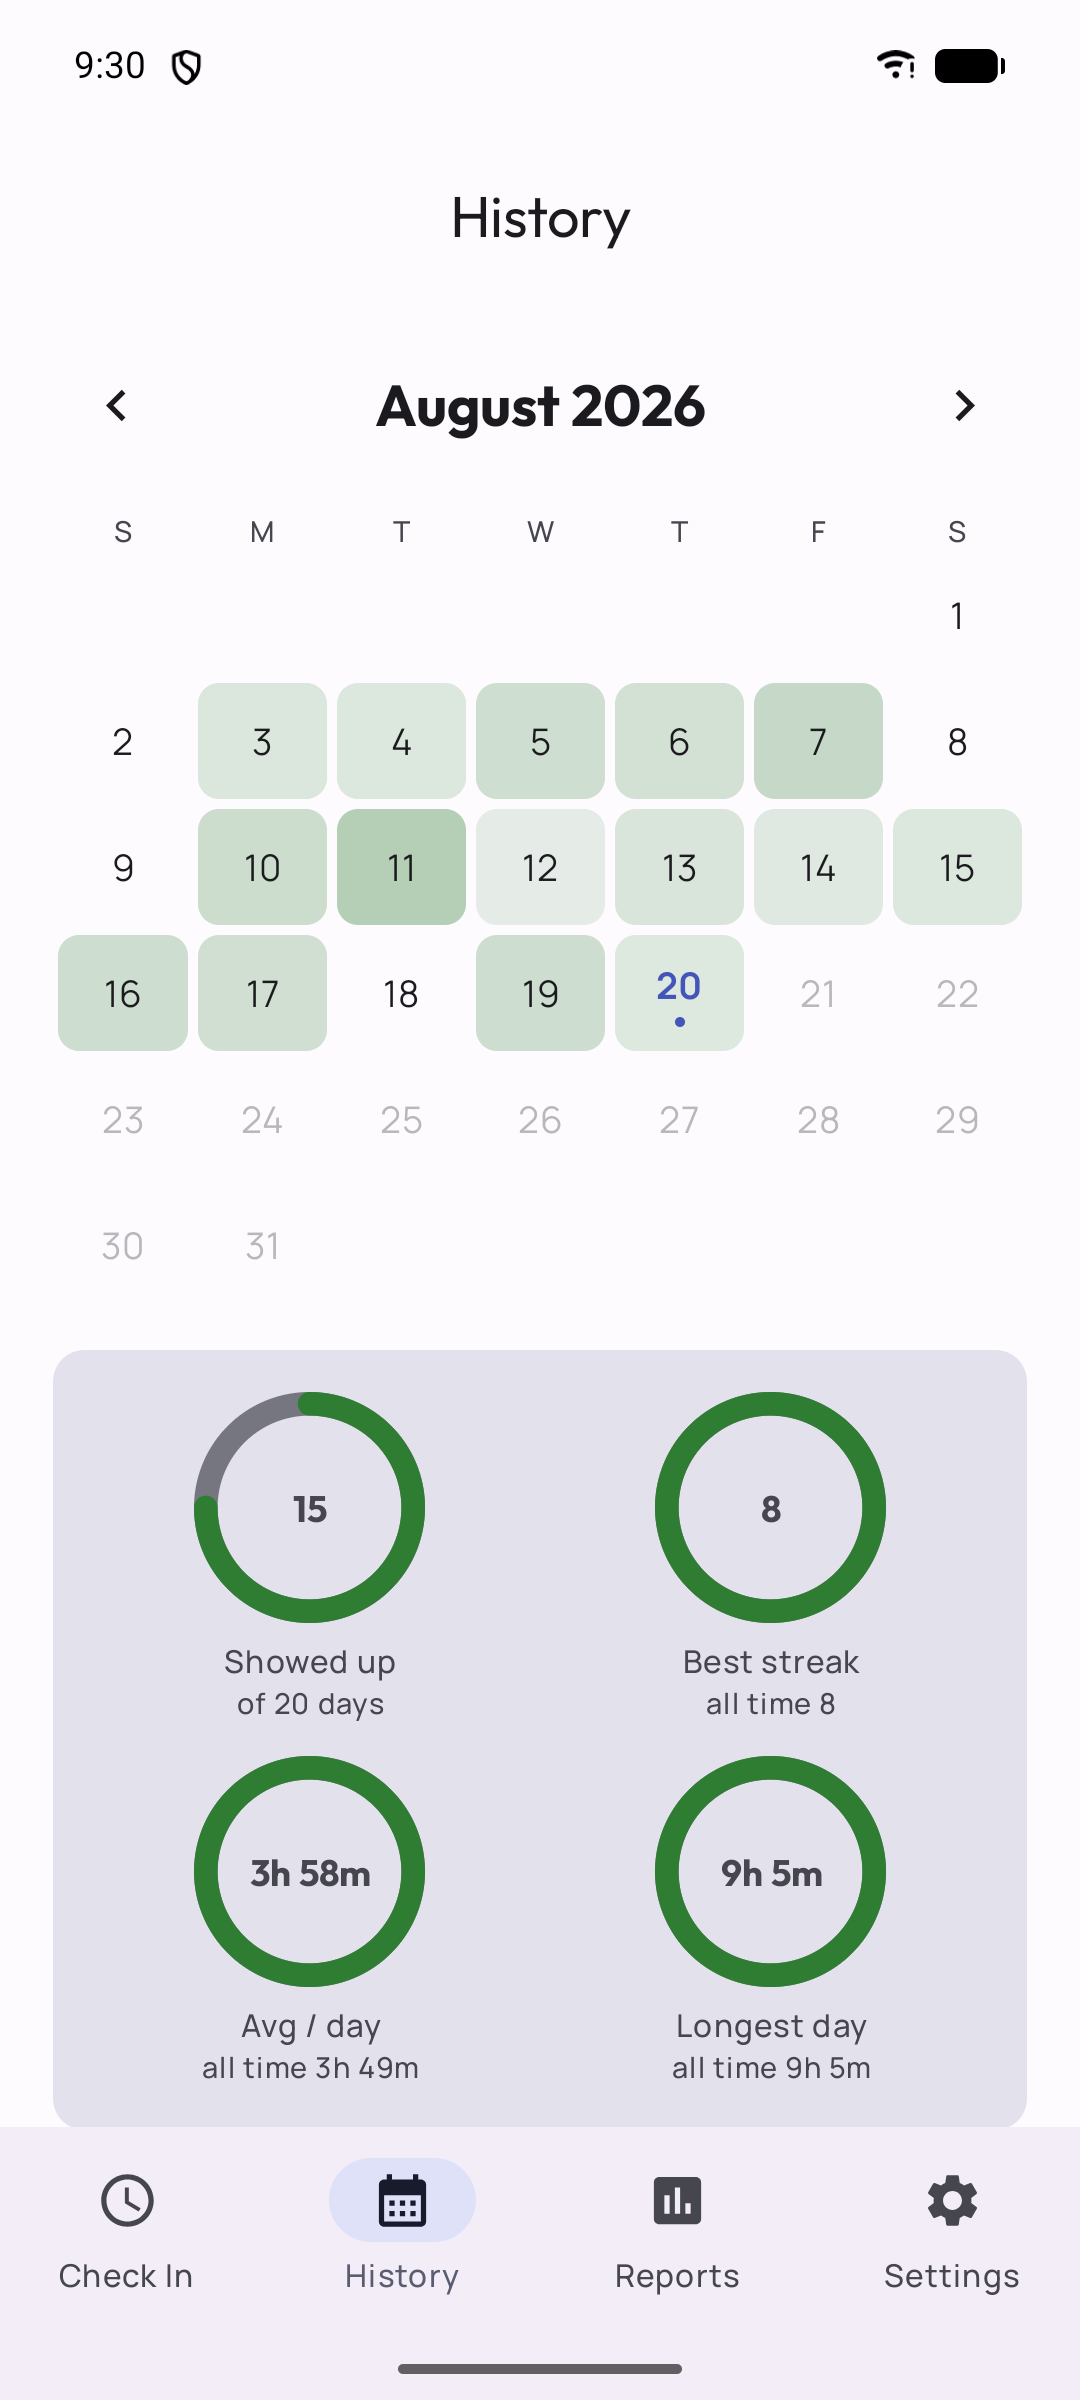
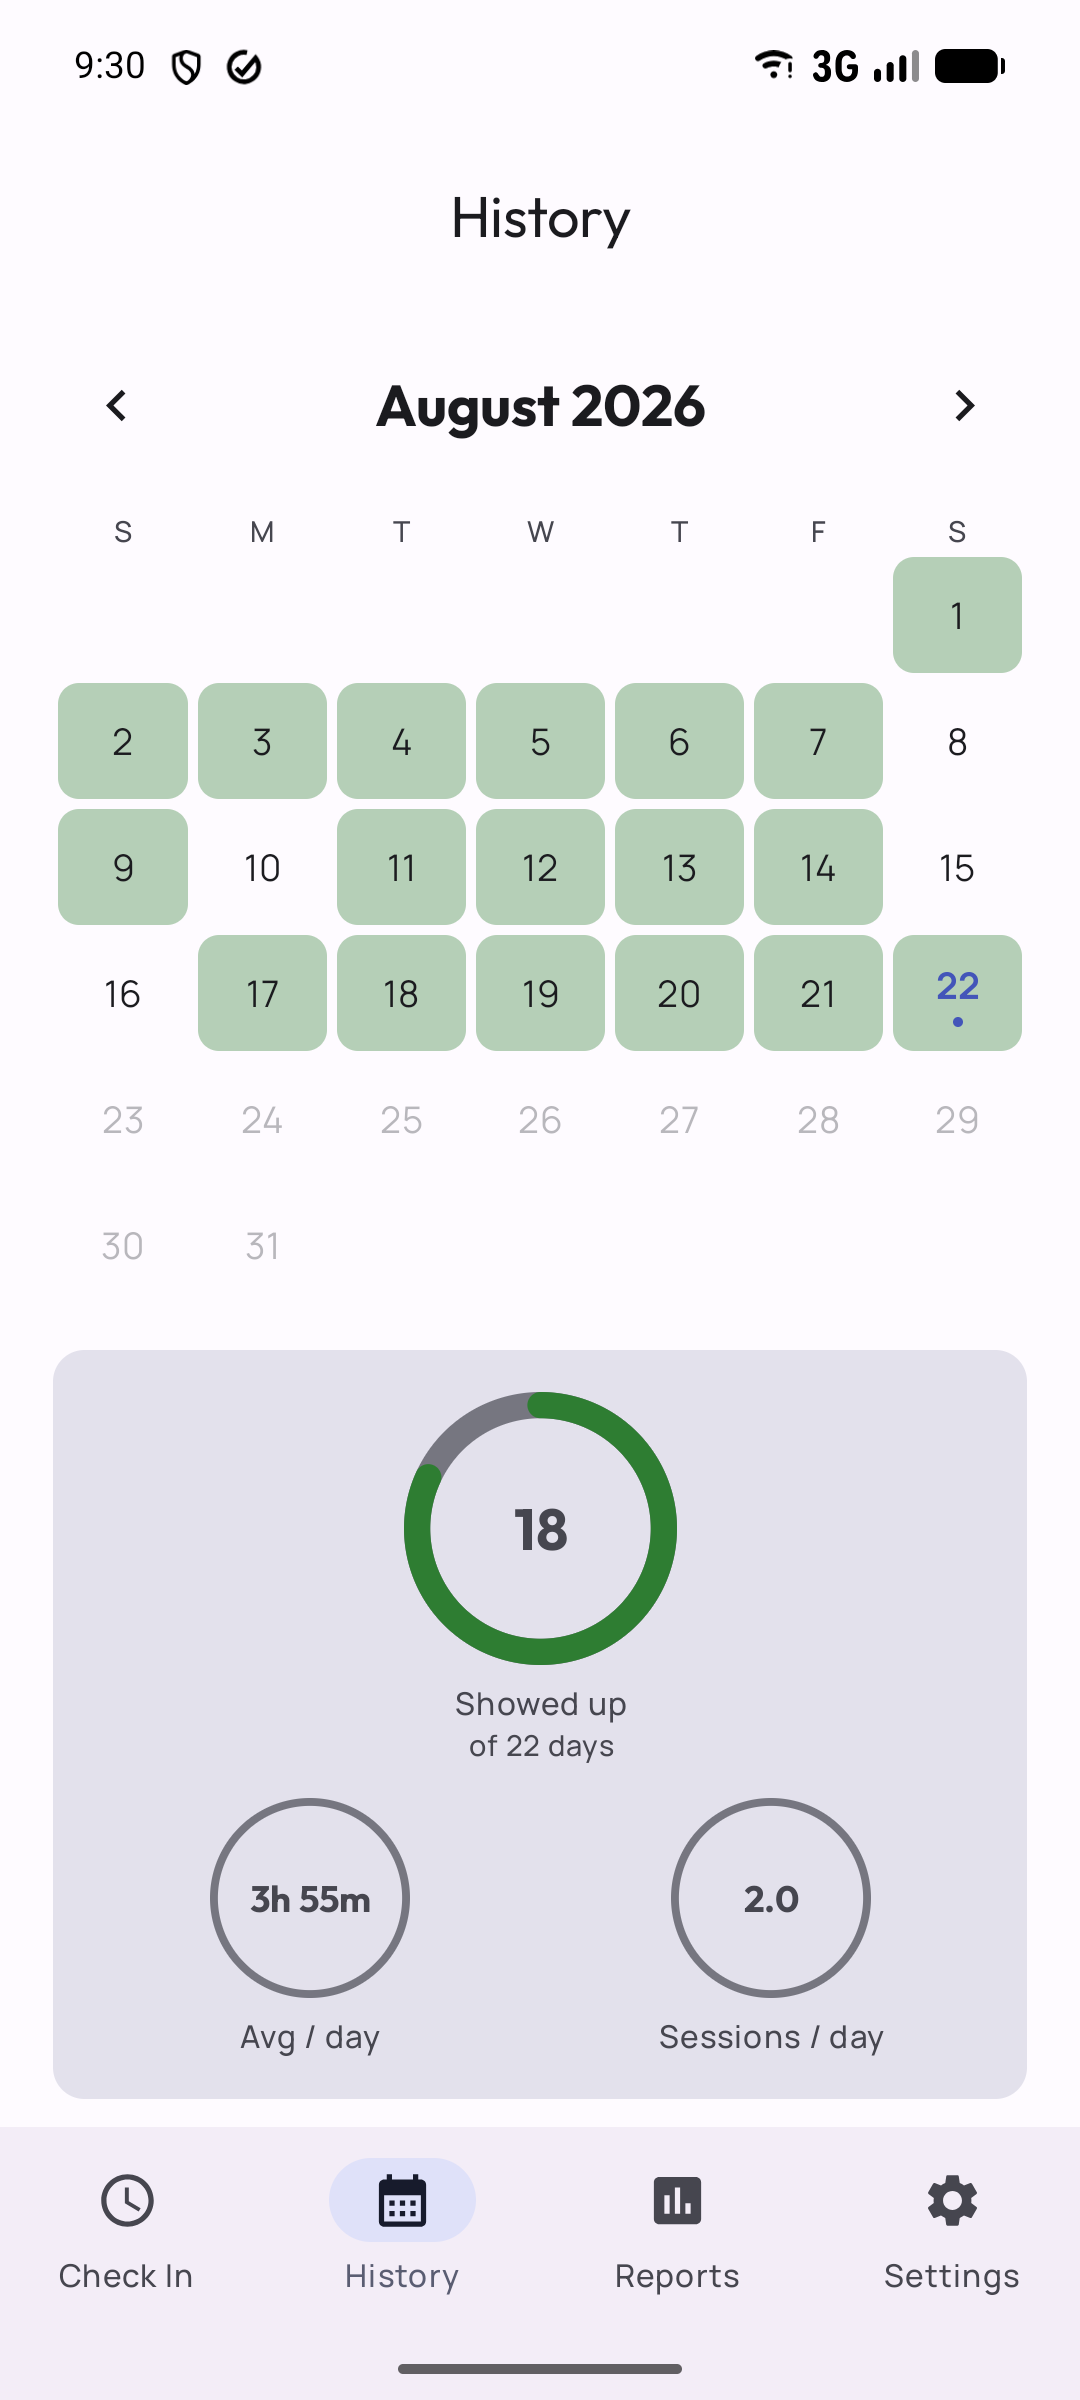
Re-shoot the store screenshots, and give auto_closed a declared default
The screenshots showed the intensity ramp, the four rings and a streak, so all
seven are re-taken against a fresh seed on Pixel_8 and Pixel_Tablet with the
documented demo-mode status bar.

seed_demo_data.py is re-aimed at what the screens now show. Its one long day
existed to give the calendar a peak to shade against and there is nothing left
to shade, so it is replaced by a handful of evening sessions — the generator
starts its blocks in the morning and early afternoon, so without them the
start-time split's evening slice is a sliver and the chart reads as if the app
could not see one. TODAY moves to the release day, as a re-shoot requires.

Separately: sessions.auto_closed now carries @ColumnInfo(defaultValue = "0").
Seeding the tablet found the divergence — the migration adds the column WITH
DEFAULT 0, while Room's CREATE TABLE for a fresh v6 install emitted it without
one. Nothing checks that, so an insert omitting the column succeeded on an
upgraded install and failed on a fresh one, which is a difference that only ever
shows up on somebody else's device. Both paths now produce the same schema, and
CLAUDE.md carries the rule for the next column.

Verified on an emulator, since the schema hash changed: a v2.0 install seeded
with v5 rows upgrades to v6 with no data loss and flags exactly the session
stopped at its own midnight, leaving the one stopped a millisecond earlier at 0;
a fresh install creates the identical table; and an all-time CSV export reports
[…]

diff --git a/app/src/main/java/com/checkin/app/data/local/AppDatabase.kt b/app/src/main/java/com/checkin/app/data/local/AppDatabase.kt
@@ -73,6 +73,12 @@ abstract class AppDatabase : RoomDatabase() {
          * Both under-report, which is the safe direction for a column that asserts something about
          * the user's behaviour.
          *
+         * The `DEFAULT 0` is matched by `@ColumnInfo(defaultValue = "0")` on the entity, so a fresh
+         * install and a migrated one end up with the *same* CREATE TABLE. Without the annotation Room
+         * emits the column with no default on a fresh install, and the two schemas differ in a way
+         * nothing checks — any insert that does not name the column then succeeds on one and fails
+         * on the other, which is a difference that only ever shows up on somebody else's device.
+         *
          * `SessionSchedule.dayBoundaryOf` is reused rather than reimplemented in SQL: the midnight
          * rule goes through the calendar (so a DST day still ends at midnight), and a second copy of
          * it here is how the export would come to disagree with the alarm that wrote the rows.

diff --git a/app/src/main/java/com/checkin/app/data/local/CheckInSession.kt b/app/src/main/java/com/checkin/app/data/local/CheckInSession.kt
@@ -29,6 +29,6 @@ data class CheckInSession(
      * say which stop instants the user chose and which midnight chose for them — a distinction the
      * export could not otherwise carry, since a forgotten session is stamped at a plausible time.
      */
-    @ColumnInfo(name = "auto_closed")
+    @ColumnInfo(name = "auto_closed", defaultValue = "0")
     val autoClosed: Boolean = false,
 )

diff --git a/play-store-assets/seed_demo_data.py b/play-store-assets/seed_demo_data.py
@@ -18,12 +18,12 @@ import sys
 from datetime import date, datetime, timedelta, timezone
 
 TZ = timezone(timedelta(hours=4))          # the device's zone; date_key must agree with it
-TODAY = date(2026, 8, 20)
+TODAY = date(2026, 8, 22)
 START = TODAY - timedelta(days=57)         # ~8 weeks, enough for two months of bars
 MISS_CHANCE = {5: 0.55, 6: 0.65}           # Sat/Sun are the days most often skipped
 WEEKDAY_MISS = 0.10
 
-random.seed(20260820)                       # reproducible: same screenshots on a re-run
+random.seed(20260822)                       # reproducible: same screenshots on a re-run
 
 
 def millis(d: date, hour: int, minute: int) -> int:
@@ -63,12 +63,15 @@ def main(db_path: str) -> None:
             rows.append((started, stopped, stopped - started, d.isoformat()))
         d += timedelta(days=1)
 
-    # One long day, so the calendar has a real peak to shade everything else against.
-    peak = TODAY - timedelta(days=9)
-    rows = [r for r in rows if r[3] != peak.isoformat()]
-    for s, e in ((8 * 60 + 45, 13 * 60 + 10), (14 * 60, 18 * 60 + 40)):
-        started, stopped = millis(peak, 0, 0) + s * 60_000, millis(peak, 0, 0) + e * 60_000
-        rows.append((started, stopped, stopped - started, peak.isoformat()))
+    # A few evenings, so the start-time split has a real third slice. The generator above starts
+    # its blocks in the morning and early afternoon, so without these the evening slice is a
+    # sliver and the chart reads as if the app could not see one.
+    for offset in (4, 11, 18, 25, 33):
+        d = TODAY - timedelta(days=offset)
+        rows = [r for r in rows if r[3] != d.isoformat()]
+        for s, e in ((9 * 60 + 20, 12 * 60 + 40), (19 * 60 + 30, 22 * 60 + 15)):
+            started, stopped = millis(d, 0, 0) + s * 60_000, millis(d, 0, 0) + e * 60_000
+            rows.append((started, stopped, stopped - started, d.isoformat()))
 
     # Today: two closed sessions, then one still running — the gauge counts up from it and
     # the primary action reads Check Out.

diff --git a/CLAUDE.md b/CLAUDE.md
@@ -87,7 +87,7 @@ UI (4-Tab Compose Screens) → ViewModel (one UiState StateFlow) → Repository 
   - `data/TimeSource` (`SystemTimeSource`) — injectable clock so date logic is deterministic in tests
   - `service/SessionSchedule` — reminder cadence and day-boundary instants; `service/SessionClock` — the ongoing notification's elapsed time and chronometer origin
   - `util/TimeFormat` — the one place durations, clock times **and dates** are formatted
-- **Room** — single entity `CheckInSession` (table `sessions`): `id`, `started_at`, `stopped_at` (null while active), `duration` (null until check-out), `date_key` (`yyyy-MM-dd`, the check-in day). DB name `"_app"`, version 6 (v2→v3 `MIGRATION_2_3` added the pause columns; v3→v4 `MIGRATION_3_4` drops the former vestigial `punch_in_selfie`/`punch_out_selfie` columns; v4→v5 `MIGRATION_4_5` drops `paused_ms`/`pause_started_at` along with the mechanism that wrote them — every migration preserves data; v5→v6 `MIGRATION_5_6` adds `auto_closed`, back-filling it by re-deriving which stop instants landed on the session's own midnight — every migration preserves data; `fallbackToDestructiveMigration()` remains the backstop).
+- **Room** — single entity `CheckInSession` (table `sessions`): `id`, `started_at`, `stopped_at` (null while active), `duration` (null until check-out), `date_key` (`yyyy-MM-dd`, the check-in day). DB name `"_app"`, version 6 (v2→v3 `MIGRATION_2_3` added the pause columns; v3→v4 `MIGRATION_3_4` drops the former vestigial `punch_in_selfie`/`punch_out_selfie` columns; v4→v5 `MIGRATION_4_5` drops `paused_ms`/`pause_started_at` along with the mechanism that wrote them — every migration preserves data; v5→v6 `MIGRATION_5_6` adds `auto_closed`, back-filling it by re-deriving which stop instants landed on the session's own midnight — **a new column needs `@ColumnInfo(defaultValue = ...)` matching the migration's `DEFAULT`**, or Room emits it without one on a fresh install while the migration adds it with one, and nothing checks: an insert omitting the column then succeeds on an upgraded install and fails on a fresh one — every migration preserves data; `fallbackToDestructiveMigration()` remains the backstop).
 - **CheckInService** — `specialUse` foreground service showing the ongoing timer notification, and **only** that. It runs no ticker and owns neither the session reminder nor the day-boundary close: the notification's elapsed time is drawn by the platform chronometer from one post, and both alarms run through `SessionReminderRunner`. It posts on state changes — start, revive, refresh, teardown — a handful of times per session. Persists a render mirror in `checkin_timer_prefs` to survive process death (`START_STICKY`). The **DB row is authoritative**: those prefs are advisory cache, read only so the notification posted inside the foreground-start deadline isn't blank, and every command reconciles against the active session via `ServiceReconciler` — a closed/absent row tears the service down (no orphan notification), and an in-flight reconcile is cancelled first so a stale snapshot can't clobber fresher state. `CheckInService.isRunning` is what `SessionWatchdog` reads to tell a live service from a killed one.
 - **Presence gate** — `PresenceGate` is the single entry point and the only place either runtime permission is asked for: it renders the prominent disclosure, then the `CAMERA` + `POST_NOTIFICATIONS` request, then `PresenceCheckScreen`, and both call sites (the root gate in `MainActivity`, the in-app gate in `AppNavScaffold`) go through it. `PresenceCheckScreen` binds a front-camera preview and reads the HAL's face metadata off it; the camera bind is guarded so a dismiss before the provider resolves still releases it. **The check passes itself** on the first frame reporting a face — there is no confirm button (see the nothing-to-press gotcha). `AuthGate.BIOMETRIC_FALLBACK_AFTER_MS` (10s) of looking without finding anyone offers a device-unlock (`BiometricPrompt`) fallback, and a camera reporting no face-detection mode offers it immediately; where the device has no screen lock, the fallback is a route to the settings screen that creates one (see the no-dead-end gotcha). The wait runs off a **saved instant** (`searchStartedAt`, `SystemClock.elapsedRealtime`) with `searchTimedOut` saved beside it, so what is left of the budget survives a rotation or a trip out of the app rather than restarting — on a device whose camera misbehaves, which is the device the fallback exists for, a phone turned over in the hand would otherwise reach the escape hatch late or never and the user could neither check in nor out. **`PresenceGate` holds a blank surface while a permission dialog is up** (`requestInFlight`, ranked above the `cameraGranted` branch), because that dialog is a translucent activity that never stops this one: the preview underneath would keep streaming and pass the check while the user was still reading a system prompt. Only the post-success `onAuthSuccess` delay is composition-scoped, so a dismissed gate never auto-succeeds. The outcome is now computed inline on the main thread from a value the camera thread has already published, so the old requirement to deliver it on `applicationScope` — which existed because detection and file deletion were async work the composition could cancel — no longer applies. `MainActivity` is a `FragmentActivity` (required by `BiometricPrompt`). The root gate is driven by `PresenceCheckSignal.request` (a `Reason`: `CHECK_OUT` from the timer or session-reminder notification's action, or `CHECK_IN` from a nudge tap). The gate and the nav host render **mutually exclusively** (gate XOR host), but `rememberNavController()` is **hoisted above the switch** so the gate preserves the active tab and back stack; a `BackHandler` dismisses the gate, and the triggering intent extra is consumed once so recreation doesn't replay it. On success, `CHECK_OUT` checks the active session out and `CHECK_IN` opens one.
 
